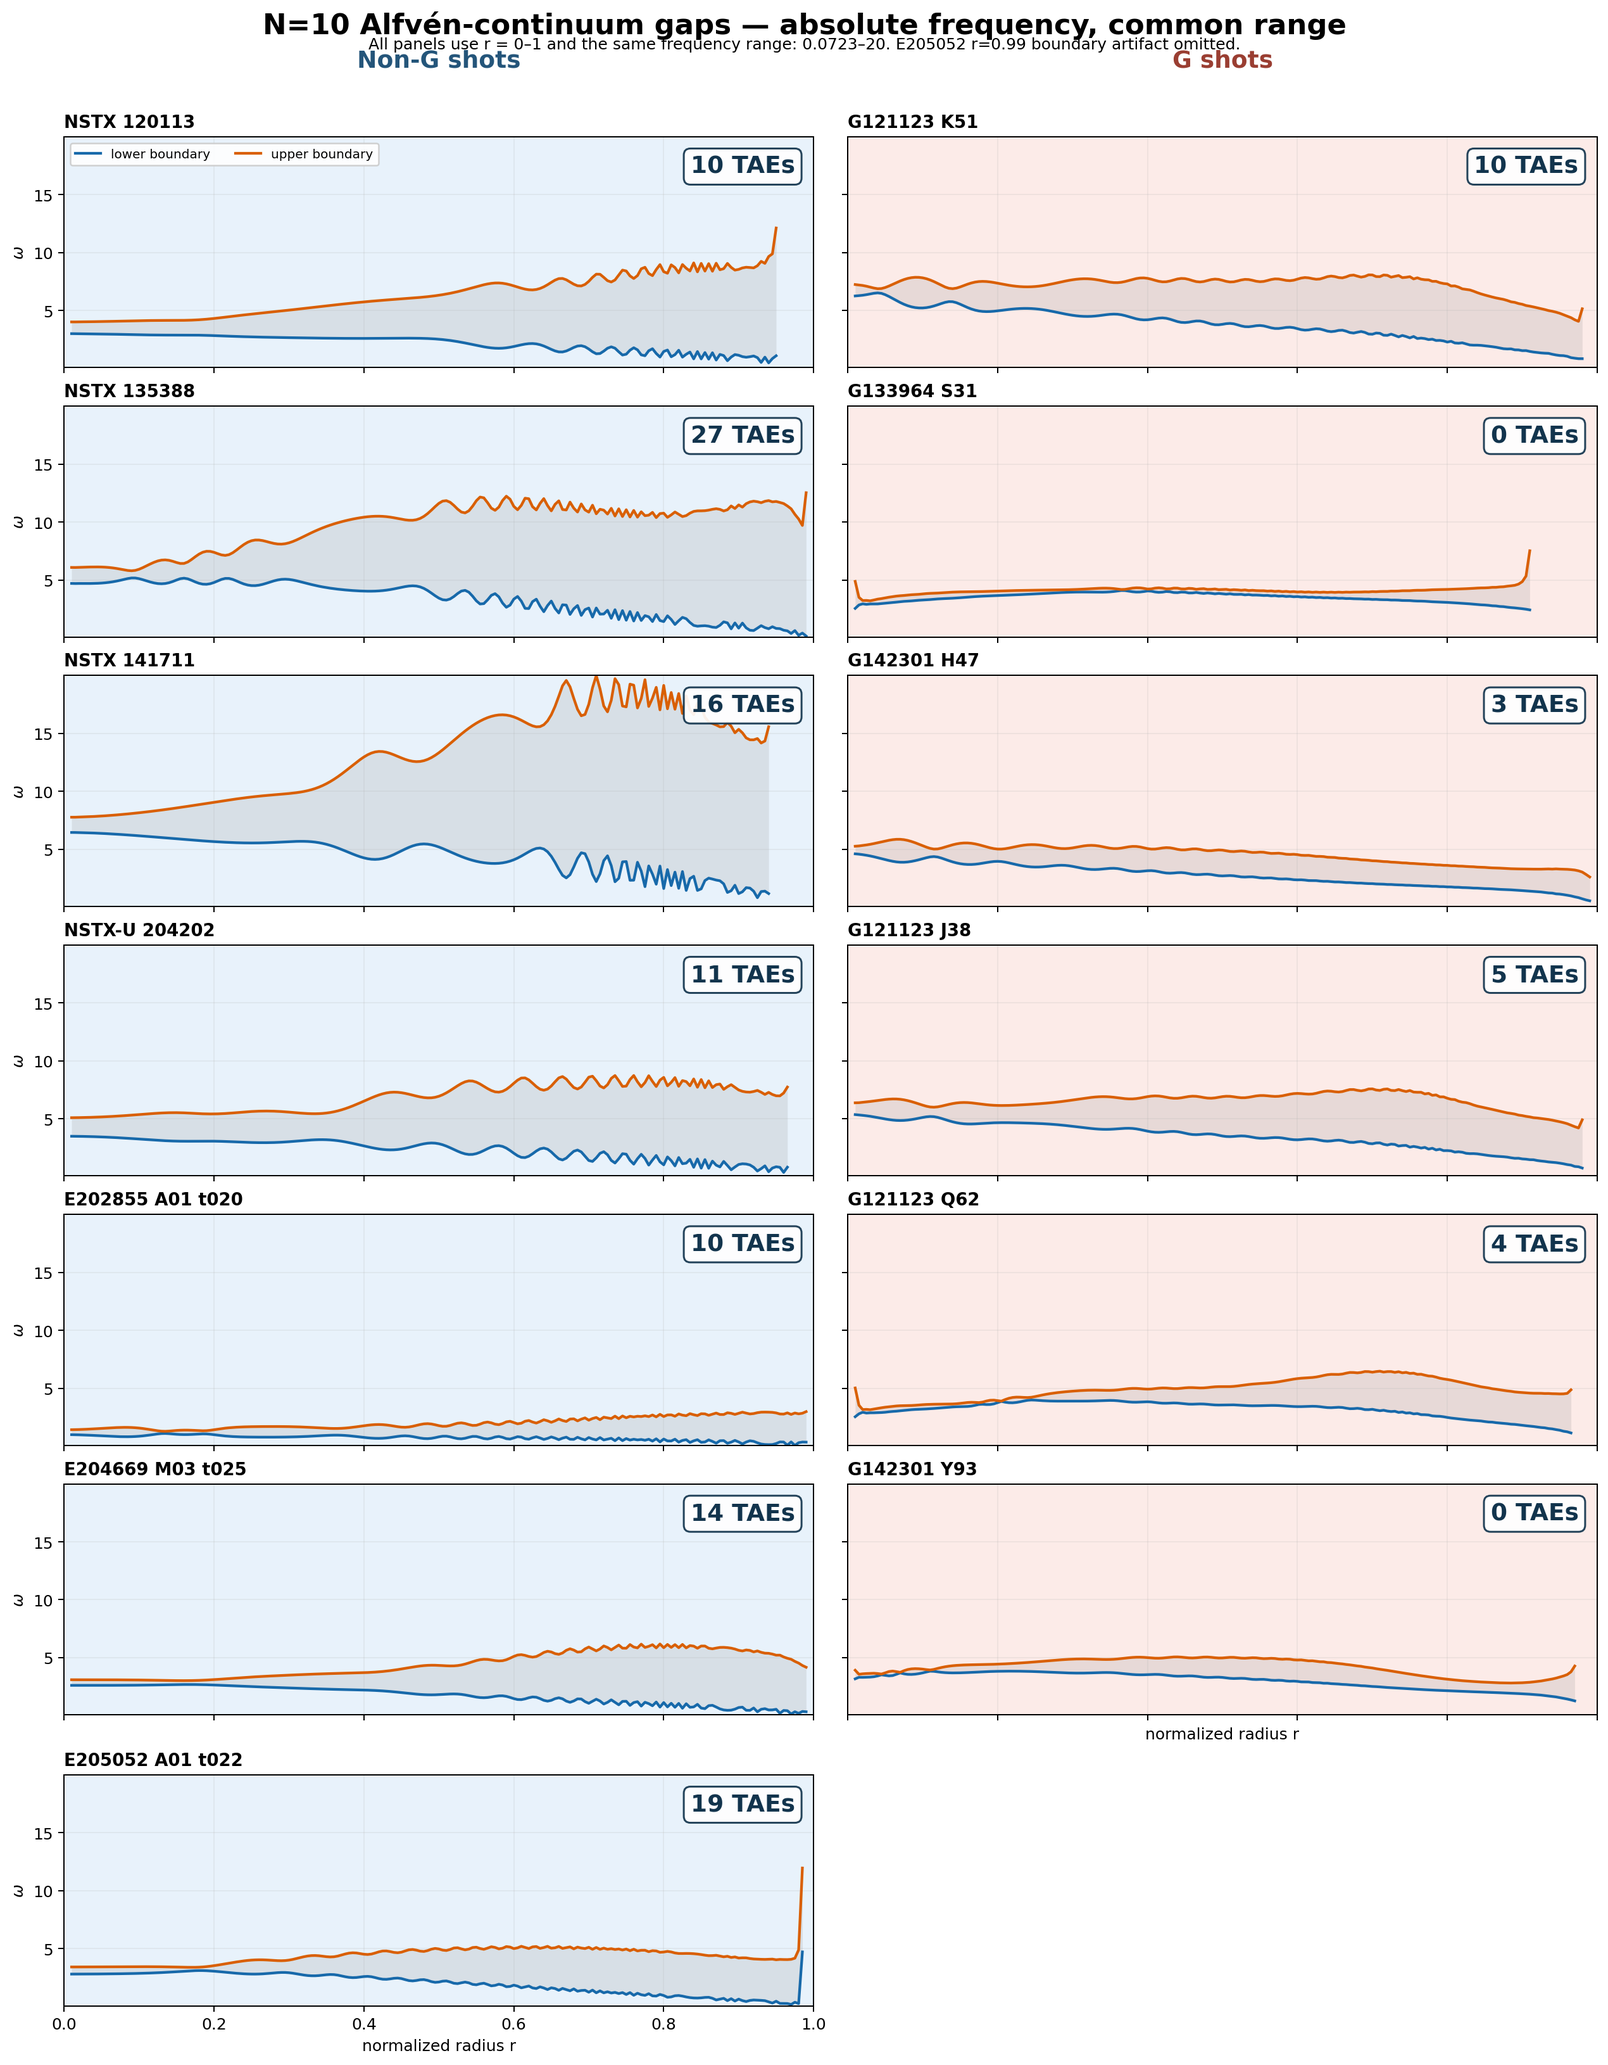
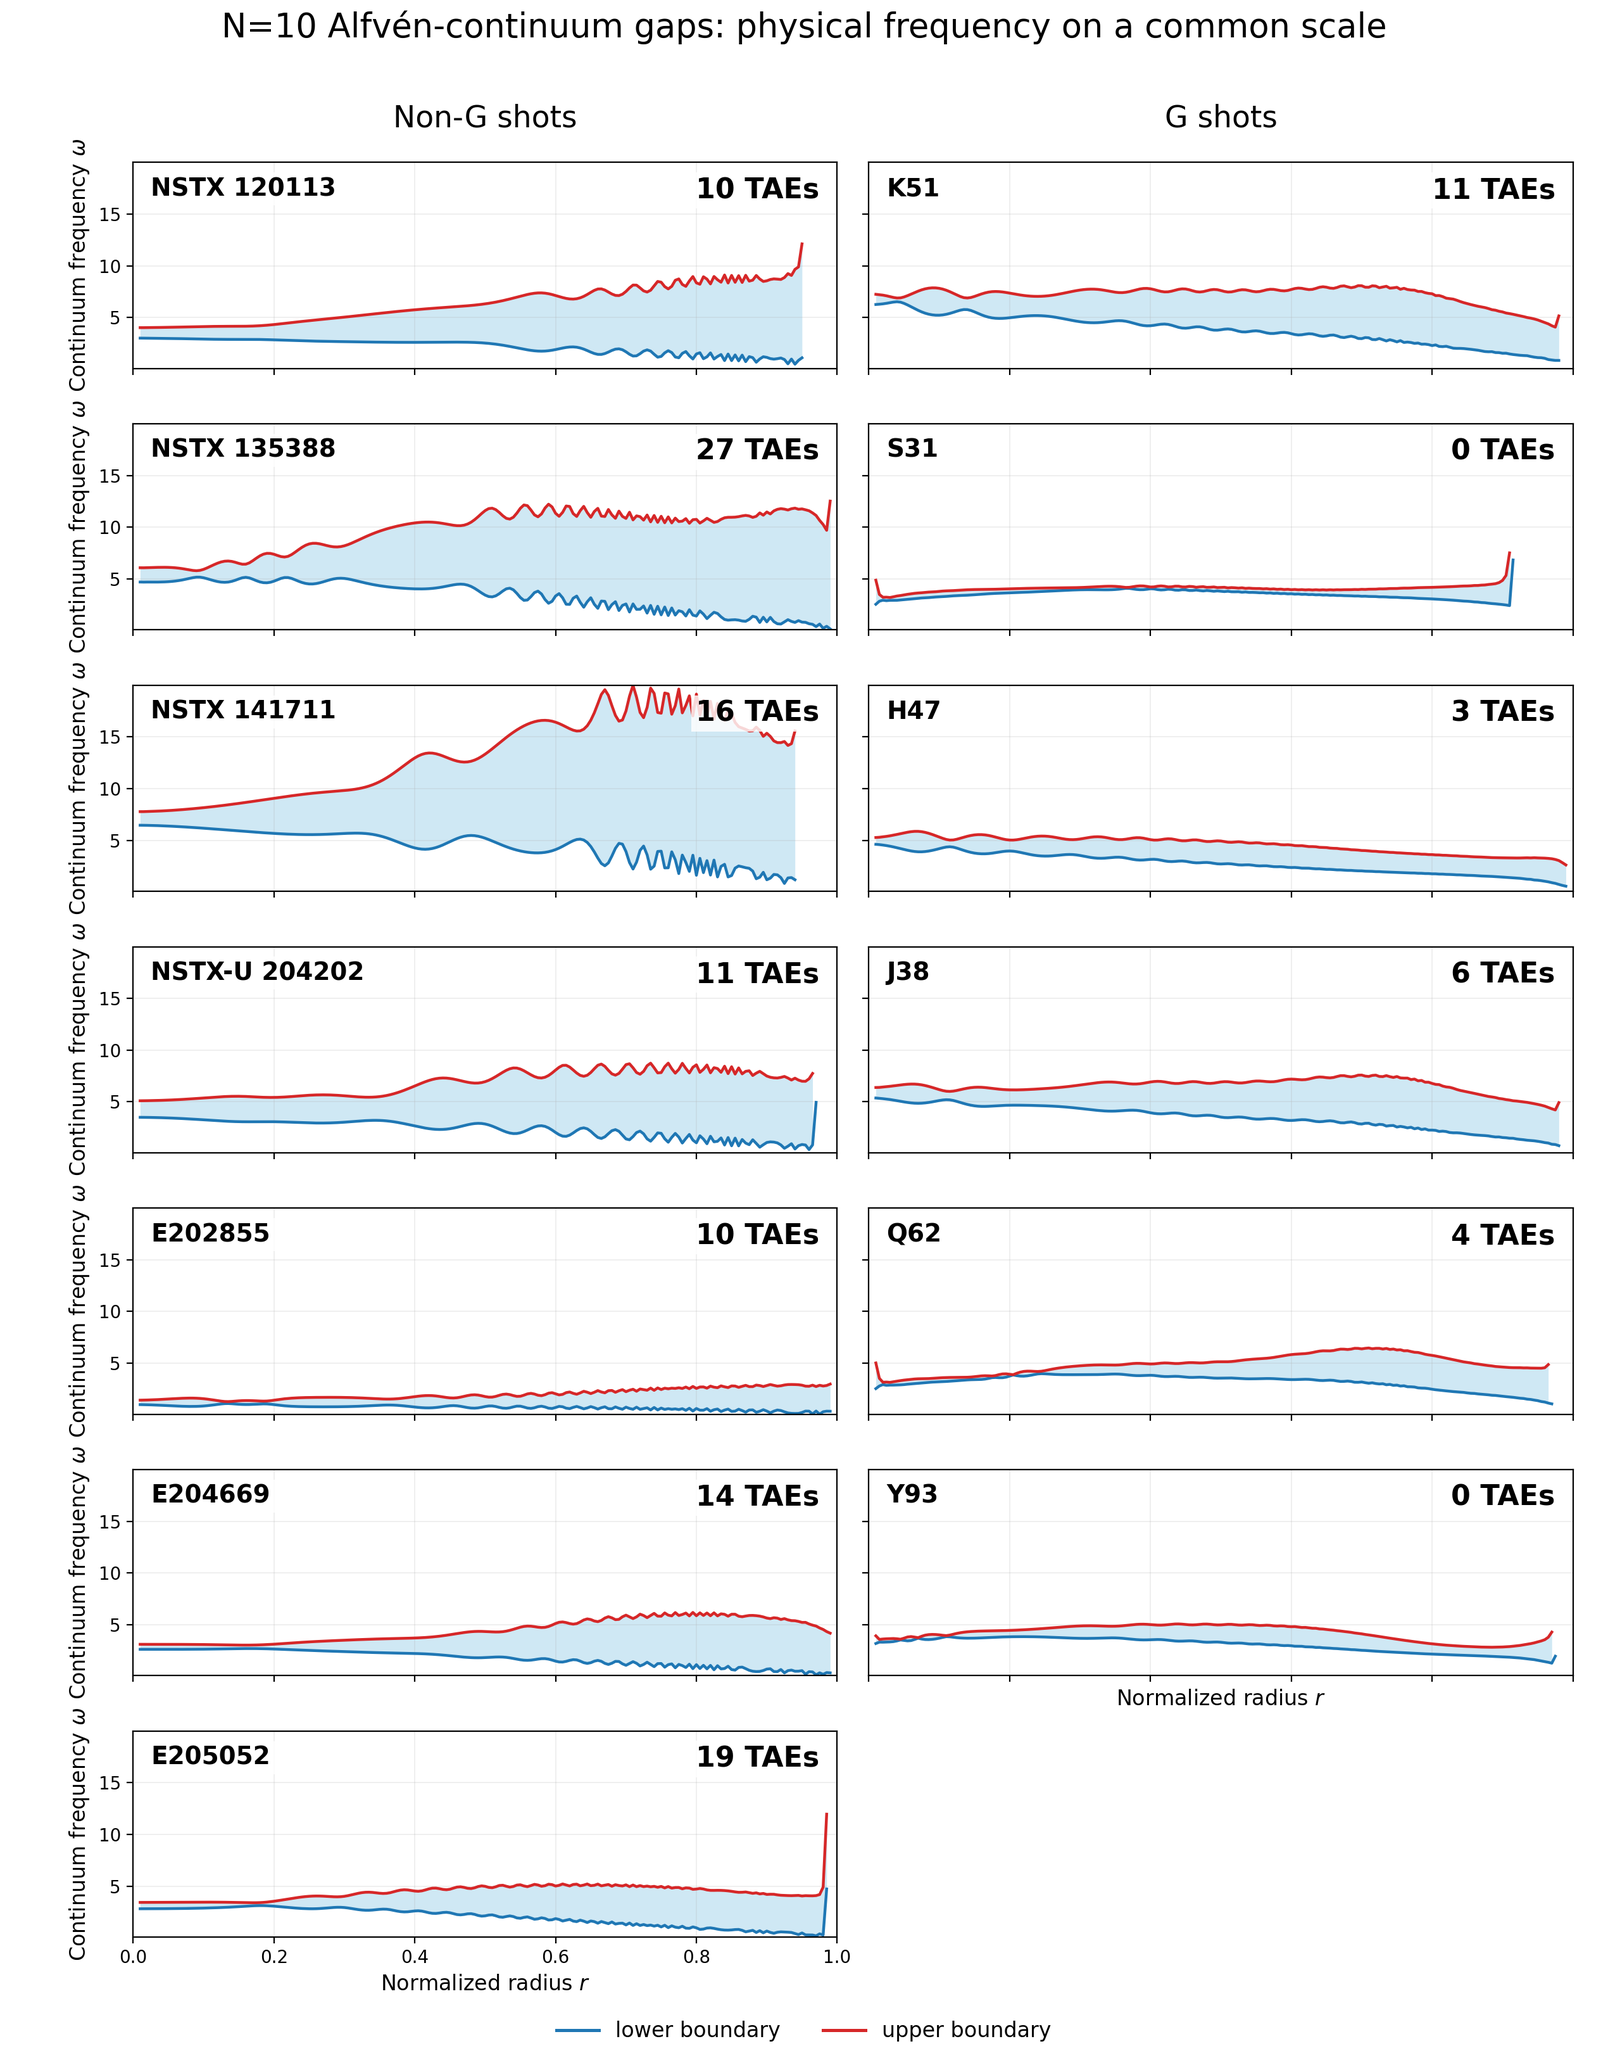
updates

Changed region(s): [[0.0311, 0.0, 0.9953, 1.0]]

diff --git a/docs/project_state.md b/docs/project_state.md
@@ -1,12 +1,12 @@
 # Project: AI NOVA mode classifier
-### Project state (current snapshot, updated 2026-08-02)
+### Project state (current snapshot, updated 2026-08-03)
 ## Goal
 Train ML classifiers to identify physically meaningful NOVA eigenmodes (“good”) vs unphysical/numerical modes (“bad”), and provide a clean, deduplicated mode set for downstream analysis (e.g., NOVA-C, surrogate modeling, digital twin workflows).
  
 ## Data
 - Active version-controlled training list:
     - `training_labels/tae_like_train.csv`
-    - 2610 labeled TAE-like modes: 601 `good`, 2009 `bad`
+    - 2610 labeled TAE-like modes: 603 `good`, 2007 `bad`
     - shots: `nstx_120113`, `nstx_135388`, `nstx_141711`, `nstxu_204202`,
       `nstxuE202855A01t020`, `nstxuE204669M03t025`,
       `nstxuE205052A01t022`, `nstxuG121123K51`, `nstxuG133964S31`,
@@ -71,7 +71,7 @@ Notes:
 1.	RF (Random Forest)
     -	Scalar + structure-derived + continuum features (22)
     -	Active checkpoint: `models/nova_mode_classifier.joblib`
-    -	Checkpoint status: trained before the 2026-08-02 G-shot label corrections;
+    -	Checkpoint status: trained before the current G-shot label corrections;
       retraining on the current 2610-row / 13-shot active list is pending
     -	Current schema: previous RF features minus `omega`, plus `W_star_max`
     -	Current 13-shot OOF accuracy: 0.951
@@ -81,8 +81,7 @@ Notes:
 2.	CNN (raw)
     -	Padded/truncated (m,r)
     -	Active checkpoint: `models/nova_cnn_raw.pt`
-    -	Checkpoint status: full-CSV refit predating the 2026-08-02 G-shot label
-      corrections; retraining on the current active list is pending
+    -	Checkpoint status: full-CSV refit predating the current G-shot label corrections; retraining on the current active list is pending
     -	Current default raw preprocessing: `M_target=100`, `R_target=201`
     -	Latest 13-shot M100 held-out split check: CM `[[394, 6], [9, 112]]`,
       accuracy 0.971, GOOD precision/recall/F1 0.949 / 0.926 / 0.937
@@ -200,11 +199,11 @@ From cont_features.py:
   for NSTX-U E-like shot classification and NOVA-C growth-rate candidate
   selection.
 - Keep NSTX-U G-case shots out of routine production sorting for now. Decide
-  whether to retune the G-shot policy after the J38 label audit and dedicated
-  gap-topology / mode-extremum feature ablations.
-- Re-audit the J38 modes whose radius and frequency align with prominent
-  continuum extrema; J38 was labeled in a separate later pass and may use a
-  more conservative policy than K51.
+  whether to retune the G-shot policy after dedicated gap-topology /
+  mode-extremum feature ablations.
+- Treat the current J38 audit as complete: retain only coherent extremum modes
+  without a material secondary continuum crossing, and revisit the remaining
+  junk-like extrema candidates only if the labeling policy changes.
 - Add shared continuum-topology and mode-extremum features for an RF LOSO
   ablation before changing the production schema. If they help, test a small
   numerical 1D-continuum branch fused with the raw-mode CNN; do not use
@@ -1470,8 +1469,8 @@ The normalized figure divides each shot by its median gap-center frequency
 over `0.05 <= r <= 0.45` and reports the median relative gap width over
 `0.05 <= r <= 0.25`. Each panel also shows the current number of GOOD-labeled
 `N=8` modes in large type for presentation use. The comparison supports continuum topology/location as an important G-shot
-failure variable: K51 and H47, which contain all nine
-strict continuum-extremum-localized shared RF/CNN false negatives, show
+failure variable: K51 and H47 contain nine of the ten strict
+continuum-extremum-localized shared RF/CNN false negatives and show
 pronounced repeated inner-radius extrema. Gap width alone does not separate
 the regimes; the G-shot inner-width range overlaps the non-G range. The
 comparison is not a universal G/non-G separator, however: NSTX 135388 and
@@ -1486,26 +1485,51 @@ determined from the minimum and maximum retained continuum values across all
 `r=0.99` is omitted; the shared maximum is then set by the NSTX 141711 upper
 boundary at `r=0.71`.
 
+The J38 audit reclassified
+`nstxuG121123J38/N10/egn10w.3596E+02` from `bad,none` to `good,tae`. It is
+a coherent companion to the already-GOOD `egn10w.3559E+02`: both localize at
+the upper-continuum minimum near `r=0.115`, their frequencies differ by only
+0.52%, and their only outer crossings occur near `r=0.85`, where
+peak-normalized mode energy is negligible (`0` and `1.9e-4`, respectively).
+
+The K51 follow-up likewise reclassified
+`nstxuG121123K51/N10/egn10w.4656E+02` from `bad,none` to `good,tae`.
+Its radial-energy maximum coincides with the upper-continuum minimum at
+`r=0.240`; the neighboring already-GOOD `egn10w.4703E+02` peaks at the
+preceding minimum at `r=0.135`, and their frequencies differ by only 0.50%.
+The only continuum crossing for `4656` is at `r=0.825`, where
+peak-normalized mode energy is `1.68e-4`. Its mode/extremum frequency mismatch
+is 3.21%, just outside the provisional 3% cutoff used for the strict
+diagnostic count; the label decision follows the physical review rather than
+changing that audit threshold.
+
+This supports a refined validity rule: a coherent extremum-localized mode may
+be GOOD provided it has no material secondary continuum crossing; a purely
+mathematical crossing in a region of negligible mode amplitude is acceptable.
+The active list now has 603 `good` and 2007 `bad` labels; the G subset has 57
+`good` and 915 `bad`.
+
 
 #### G-shot working conclusions after manual FN review
 
-The active six-shot G subset contains 972 modes: 55 `good` and 917 `bad`.
+The active six-shot G subset contains 972 modes: 57 `good` and 915 `bad`.
 Five original GOOD labels were corrected to BAD during the false-negative
-review. Existing M100 LOSO predictions have not been retrained, but applying
+review, and later J38 and K51 audits corrected two BAD labels to GOOD.
+Existing M100 LOSO predictions have not been retrained, but applying
 the corrected labels to those saved predictions gives:
 
-- raw CNN: 20 G-shot false negatives, 14 (70%) strictly
+- raw CNN: 22 G-shot false negatives, 15 (68%) strictly
   continuum-extremum-localized;
-- RF: 31 false negatives, 11 (35%) extremum-localized;
-- combined policy: 29 false negatives, 10 (34%) extremum-localized;
-- RF/CNN shared rejects: 11 false negatives, 9 (82%)
+- RF: 32 false negatives, 12 (38%) extremum-localized;
+- combined policy: 30 false negatives, 11 (37%) extremum-localized;
+- RF/CNN shared rejects: 12 false negatives, 10 (83%)
   extremum-localized;
-- distinct GOOD modes missed by either model: 40, of which 16 (40%) are
+- distinct GOOD modes missed by either model: 42, of which 17 (40%) are
   extremum-localized.
 
 The strict diagnostic used a mode radial-amplitude maximum within `dr <= 0.02`
 of a local lower-boundary maximum or upper-boundary minimum and a relative
-mode/extremum frequency mismatch no larger than 3%. For the nine shared RF/CNN
+mode/extremum frequency mismatch no larger than 3%. For the ten shared RF/CNN
 cases, the radial agreement is stronger (`dr <= 0.005`). The two shared-reject
 exceptions are `nstxuG121123K51/N9/egn09w.2937E+02`, whose main amplitude is
 far from the frequency-matching extremum, and
@@ -1522,19 +1546,21 @@ The current physical working picture has two continuum regimes:
    support a distinct class of narrow modes localized at those extrema. At
    `N=8`, K51 has width 38.6%, monotonicity 0.22, and 6 GOOD modes; H47 has
    width 37.2%, monotonicity 0.31, and 2 GOOD modes. These two shots contain
-   all nine strict extremum-localized shared RF/CNN false negatives.
+   nine of the ten strict extremum-localized shared RF/CNN false negatives;
+   the corrected J38 N10/3596 mode is the tenth.
 
 These are tendencies, not sufficient rules. Non-G NSTX 135388 and E202855
 also have wavy inner continua and many GOOD modes. J38 has K51-like topology
 at `N=8` (31.5% width and 0.39 monotonicity) but zero `N=8` GOOD labels and
-only 6 GOOD among 174 TAE-like candidates overall, compared with 27 among 208
+only 7 GOOD among 174 TAE-like candidates overall, compared with 28 among 208
 for K51. Over `N=7-10`, the candidate counts are nearly equal (123 J38 versus
-128 K51), but J38 has fewer prominent inner wells (12 versus 19) and only one
-GOOD mode satisfying the coarse extremum-alignment test, versus 12 for K51.
-The same coarse geometry flags 19 BAD-labeled high-`n` J38 modes, so manual
-review is needed to distinguish genuinely numerical structures from a
-label-policy difference. K51 belongs to the earlier six-shot review, whereas
-J38 was labeled in a separate later pass.
+128 K51), but J38 has fewer prominent inner wells (12 versus 19) and two
+GOOD modes satisfying the coarse extremum-alignment test, versus 13 for K51.
+The completed audit leaves 18 BAD-labeled high-`n` J38 modes meeting the coarse
+geometry criterion; these were retained as BAD because they cross the
+continuum materially elsewhere or have clearly junk-like structure. K51
+belongs to the earlier six-shot review, whereas J38 was labeled in a separate
+later pass.
 
 Model interpretation:
 
@@ -1545,15 +1571,17 @@ Model interpretation:
   mode-to-extremum match. A tangency at a continuum minimum/maximum may also
   produce no ordinary crossing and may have small amplitude exactly at the
   contact.
-- Continuum topology alone must not label a mode: the important condition is
+- Continuum topology alone must not label a mode: the important conditions are
   joint radial and frequency alignment between a coherent mode and a
-  sufficiently prominent inner extremum.
+  sufficiently prominent inner extremum, plus no secondary continuum crossing
+  where the mode has material amplitude.
 
 Proposed first RF experiment: compute the physical-frequency boundaries
 `sqrt(low2)` and `sqrt(high2)` over `0.05 <= r <= 0.40` and add robust relative
 gap width, binned center-frequency change, lower/upper edge monotonicity,
 prominent-well count/depth/radius, mode-to-extremum radial and frequency
-distance, and mode energy near the extremum. Thresholds such as 15% width or
+distance, mode energy near the extremum, and maximum mode energy at secondary
+continuum crossings. Thresholds such as 15% width or
 0.75 monotonicity are provisional diagnostics from the `N=8` comparison, not
 production cuts. Evaluate baseline, topology-only, and topology-plus-alignment
 schemas with shot-wise LOSO and report G and non-G subsets separately.
@@ -1563,5 +1591,4 @@ A small 1D branch can ingest normalized lower/upper boundaries, the normalized
 mode-frequency line, and a validity mask on the same radial grid; concatenate
 its embedding with the raw-mode CNN embedding. This is different from the
 existing hybrid CNN, which receives continuum summary scalars but not the full
-gap topology. Given only 55 G-shot GOOD examples, perform the RF ablation and
-J38 audit first.
+gap topology. Given only 57 G-shot GOOD examples, perform the RF ablation before expanding the CNN.

diff --git a/training_labels/README.md b/training_labels/README.md
@@ -24,14 +24,14 @@ Columns:
 
 Current checked contents:
 - 2610 labeled modes
-- labels: 601 `good`, 2009 `bad`
+- labels: 603 `good`, 2007 `bad`
 - shots: `nstx_120113`, `nstx_135388`, `nstx_141711`, `nstxu_204202`,
   `nstxuE202855A01t020`, `nstxuE204669M03t025`, `nstxuE205052A01t022`,
   `nstxuG121123K51`, `nstxuG133964S31`, `nstxuG142301H47`,
   `nstxuG121123J38`, `nstxuG121123Q62`, `nstxuG142301Y93`
 
 This is the list to use when retraining the expanded RF and CNN models.
-The active RF and raw-CNN checkpoints predate the 2026-08-02 G-shot label
+The active RF and raw-CNN checkpoints predate the current G-shot label
 corrections; retraining on the current 2610-row / 13-shot list is pending.
 
 ## Addition / component lists
@@ -111,7 +111,7 @@ Related metadata/audit files in the shared `nova2/metadata` area:
 The six-shot list has been merged into `tae_like_train.csv`.
 
 Checked staged-label summary:
-- cleaned staged list: 1040 rows, 248 `good`, 792 `bad`
+- cleaned staged list: 1040 rows, 249 `good`, 791 `bad`
 - not-cleaned staged list: 1041 rows, with one duplicate mode
 - all cleaned staged paths resolve to files under `$NOVA_DATA` by
   `shot/N/file` suffix
@@ -208,13 +208,13 @@ review files under `additions/` do not.
 
 Current checked contents after final manual review:
 - `additions/tae_like_nstx_135388.csv`: 344 TAE-like rows, 122 `good`, 222 `bad`
-- `additions/tae_like_nstxuG121123J38.csv`: 174 TAE-like rows, 6 `good`, 168 `bad`
+- `additions/tae_like_nstxuG121123J38.csv`: 174 TAE-like rows, 7 `good`, 167 `bad`
 
 Merge details:
 - old `nstx_135388` rows removed from `tae_like_train.csv`: 380 rows, 185
   `good`, 195 `bad`
 - refreshed `nstx_135388` rows added: 344 rows, 122 `good`, 222 `bad`
-- new `nstxuG121123J38` rows added: 174 rows, 6 `good`, 168 `bad`
+- new `nstxuG121123J38` rows added: 174 rows, 7 `good`, 167 `bad`
 
 The continuum-crossing mismatch issue is considered resolved for modes
 recalculated with the correct q profile.

diff --git a/README.md b/README.md
@@ -78,8 +78,8 @@ Model families
 Current best models
 - Active expanded-set models live at `models/nova_mode_classifier.joblib` and
   `models/nova_cnn_raw.pt`. Both checkpoints were trained on the 2610-row /
-  13-shot list before the 2026-08-02 G-shot label corrections; retraining on the
-  current 601-GOOD / 2009-BAD list is pending. The raw-CNN checkpoint is a
+  13-shot list before the current G-shot label corrections; retraining on the
+  current 603-GOOD / 2007-BAD list is pending. The raw-CNN checkpoint is a
   full-list refit with `M_target=100`.
 - Current RF 13-shot OOF check: CM `[[1967, 37], [91, 515]]`, accuracy
   `0.951`, GOOD recall `0.850`, GOOD precision `0.933`, GOOD F1 `0.889`.

diff --git a/scripts/README.md b/scripts/README.md
@@ -712,7 +712,7 @@ Shot-level workflow for mixed TAE/EAE runs. It does not move files. Instead, it:
 
 Current operational note: this is the main large-shot sorting path for the
 active models. The top-level RF and raw-CNN checkpoints were trained on the
-13-shot TAE-like list before the 2026-08-02 G-shot label corrections; retraining
+13-shot TAE-like list before the current G-shot label corrections; retraining
 on the corrected list is pending. The current production use is NSTX-U E-like
 shot sorting for NOVA-C candidate selection. **NSTX-U G-case shots are treated
 as a separate regime** for now because their narrow, strongly varying TAE gap
